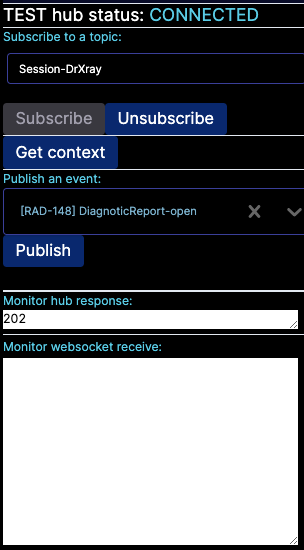
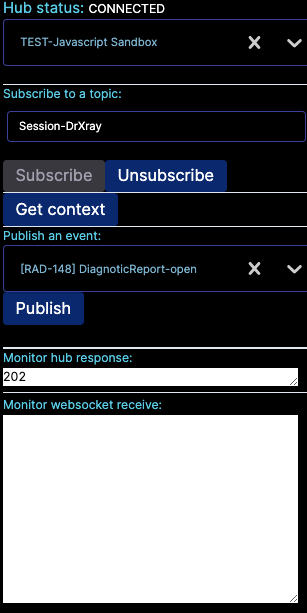
update screenshot

diff --git a/README.md b/README.md
@@ -28,7 +28,7 @@
   <p><strong>The OHIF Viewer</strong> is a zero-footprint medical image viewer
 provided by the <a href="https://ohif.org/">Open Health Imaging Foundation (OHIF)</a>. It is a configurable and extensible progressive web application with out-of-the-box support for image archives which support <a href="https://www.dicomstandard.org/using/dicomweb/">DICOMweb</a>.</p>
 </div>
-This extension is a collection of clients and test/troubleshooting tools for FHIR based integrations such as SMART on FHIR launch with patient context, SMART Imaging Access and FHIRcast.
+This extension is a collection of clients and test/troubleshooting tools for FHIR based integrations such as SMART on FHIR® launch with patient context, SMART Imaging Access and FHIRcast.
 
 
 
@@ -81,9 +81,15 @@ Alternatively, test the SMART launch by navigating to the SMART launch sandbox: 
 
 ## SMART Imaging Access
 
-This is a client for the SMART Imaging project.  It allows the OHIF study list to use a FHIR server that has an 'ImagingStudy' endpoint as a datasource. 
+This is a client for the SMART Imaging project.  
+It allows to populate the OHIF study list from two  FHIR servers:  the patient data from a clinical FHIR server and the ImagingStudy resources from  a FHIR server dedicated to imaging.  The images themselves reside on a DICOM server. 
 
-The SMART Imaging project aims to provide a unified solution for accessing imaging studies alongside clinical data using a single authorization flow. This enables patients to have better access to their data, facilitates second opinions, streamlines data donations for research, and supports providers in their analysis with preferred tools and specialty-specific viewers
+https://github.com/sync-for-science/imaging
+
+The SMART Imaging project aims to provide a unified solution for accessing imaging studies alongside clinical data using a single authorization flow. This enables patients to have better access to their data, facilitates second opinions, streamlines data donations for research, and supports providers in their analysis with preferred tools and specialty-specific viewers.
+
+
+
 ### Test side panel
 ### How to use 
 
@@ -120,8 +126,8 @@ where 'NAME' matches name of the entry in the configuration file.
 
 
 ### Test side panel
-
-The first step is to subscribe to the hub for a specific topic.  A FHIRcast topic is defined by the hub and is normally a secret user identifier or a user session identifier. If you open multiple test clients using the same topic, perhaps one on your PC and one on your tablet, you will see the messages going across.   
+To use the side test side panel, the first step is to select a hub from the drop down box.  The entries come from the configuration file.
+Next you subscribe to the hub for a specific topic.  A FHIRcast topic is defined by the hub and is normally a secret user identifier or a user session identifier. If you open multiple test clients using the same topic, perhaps one on your PC and one on your tablet, you will see the messages going across.   
 
  ![sidepanel](/images/fhircast-side-panel.png)
 
@@ -171,10 +177,10 @@ const hubContextResponse = await fhircastGetContext(hub,topic);
 ```
 The response in this case is a JSON object containing the context information.
 
-The test hub in this example is the [FHIRcast Javascript sandbox](https://github.com/fhircast/sandbox.js).
+
 
 ### PowerCast connector
-The PowerCast connector is  a utility of the Nuance PsOne reporting client.  It runs on Windows PC and provides a local endpoint for discovery and login.  It can launch the PsOne client and also provide the FHIRcast topic. Specifications aer here: 
+The PowerCast connector is  a utility of the Nuance PsOne reporting client.  It runs on Windows PC and provides a local endpoint for discovery and login.  It can launch the PsOne client and also provide the FHIRcast topic. Specifications are here: 
 [Nuance Powercast](https://connect2.nuancepowerscribe.com/psonesetup/PO-PowerCastIntegrationGuide.pdf).
 
 #### Configuration
